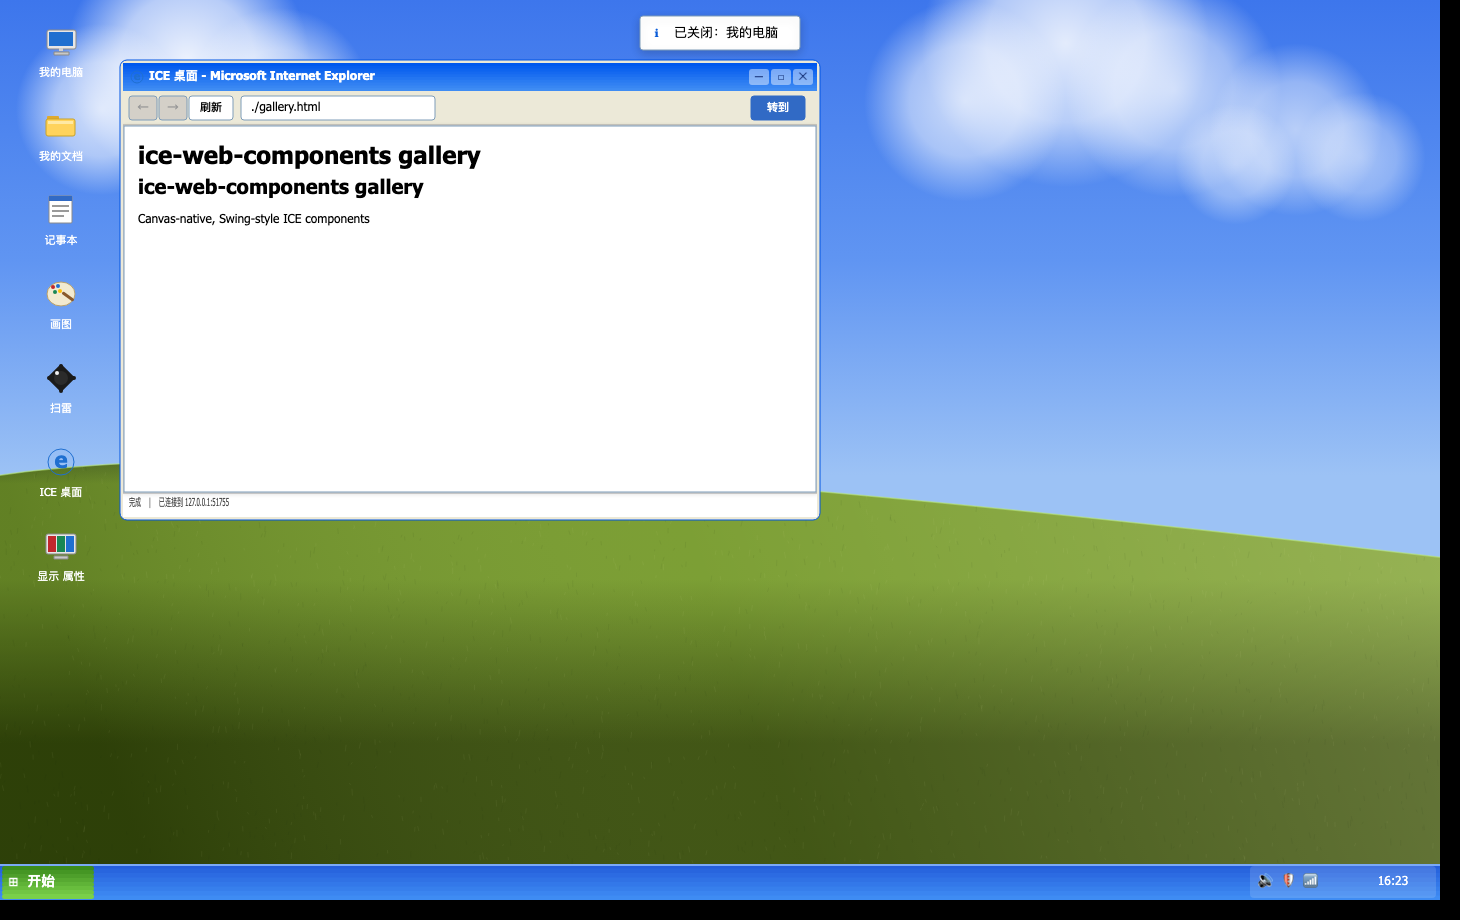
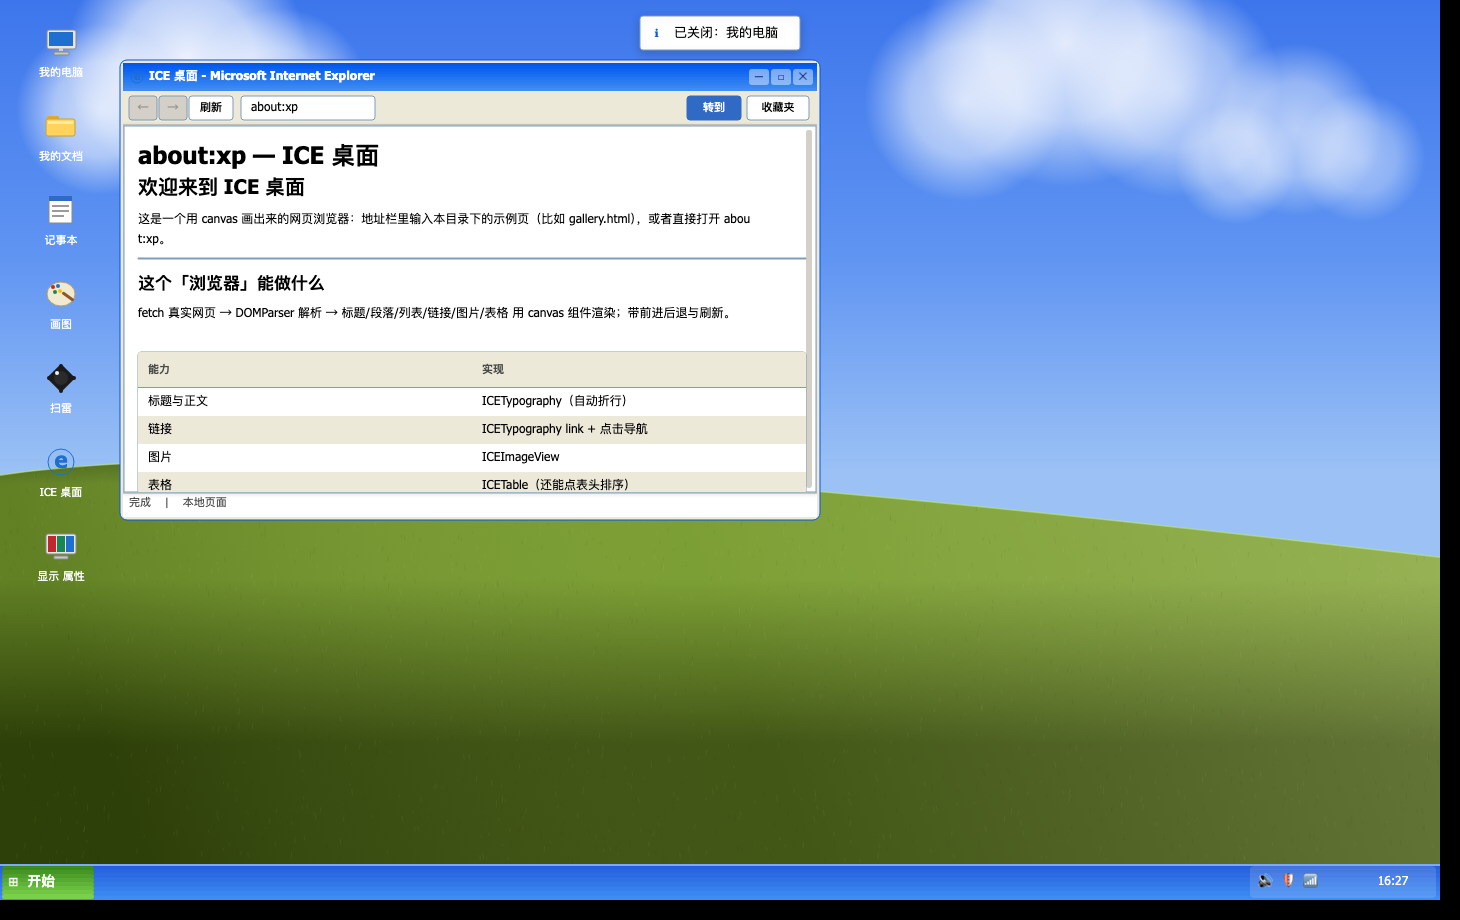
feat(xp/ie): 渲染 <table> 与 <hr>、about:xp 本地彩蛋页、收藏夹下拉
- 抓到的网页里 <table> 现在渲染成真正的 ICETable（表头/斑马纹/点表头排序都白送），
  <hr> 渲染成 ICESeparator；抽取逻辑按 tr/th/td 生成列与行（无表头时自动生成列名）
- about:xp：不联网也能看的本地页（介绍这个 canvas 浏览器 + 一张 ICETable 能力表），
  地址栏直接输入即可；工具栏加「收藏夹」下拉（跳到本目录示例页 / about:xp）
- QA：qa-xp 新增 2 项（about:xp 页面确实渲染出 ICETable 表格、收藏夹下拉可打开）；
  表格断言按 ICETable 的公开方法判断（UMD 构建里 constructor.name 会被压缩）
- 文档：examples.md 补「网页元素 → 组件」对照表与 about:xp/收藏夹说明

验证：单测 523；verify（tsc + build + docs 262 链接）通过；qa:xp 23 → 25 项全绿；重出 xp-ie.png

diff --git a/examples/windows-xp.html b/examples/windows-xp.html
@@ -1505,7 +1505,20 @@
           style: { fontSize: 12 },
         });
         const go = new W.ICEButton({ id: 'ie-go', left: 424, top: 5, width: 54, height: 24, text: '转到', size: 'small' });
-        toolbar.addChildren([backButton, forwardButton, refreshButton, address, go], { align: 'top' });
+        const bookmarks = new W.ICEButton({ id: 'ie-bookmarks', left: 484, top: 5, width: 62, height: 24, text: '收藏夹', size: 'small', variant: 'default' });
+        toolbar.addChildren([backButton, forwardButton, refreshButton, address, go, bookmarks], { align: 'top' });
+        W.attachDropdown(ice, bookmarks, {
+          items: [
+            { key: 'gallery', label: '组件总览 gallery' },
+            { key: 'workbench', label: '客服工作台 workbench' },
+            { key: 'admin', label: '六页后台 admin' },
+            { key: 'xp', label: '关于本页 about:xp' },
+          ],
+          onSelect: (item) => {
+            const targets = { gallery: './gallery.html', workbench: './workbench.html', admin: './admin.html', xp: 'about:xp' };
+            goTo(targets[item.key] || './gallery.html');
+          },
+        });
 
         const viewport = new W.ICEPanel({
           left: 0,
@@ -1589,6 +1602,29 @@
               top += 158;
               return;
             }
+            if (block.kind === 'hr') {
+              const node = new W.ICESeparator({ left: 14, top, width, height: 1 });
+              page.addChild(node, false);
+              top += 14;
+              return;
+            }
+            if (block.kind === 'table') {
+              // 表格渲染成真正的 ICETable（列排序/悬停/斑马纹都白送）
+              const node = new W.ICETable({
+                left: 14,
+                top,
+                width,
+                rowHeight: 28,
+                columns: block.columns.map((title, index) => ({
+                  key: 'c' + index,
+                  title: title || '列' + (index + 1),
+                })),
+                data: block.rows,
+              });
+              page.addChild(node, false);
+              top += Number(node.state.height) + 10;
+              return;
+            }
             const lines = paragraphLines(block.text, width - 28, 12);
             const node = new W.ICETypography({ left: 14, top, width, rows: Math.max(1, lines.length), text: block.text, variant: 'paragraph' });
             page.addChild(node, false);
@@ -1633,6 +1669,31 @@
             Array.from(el.children || []).forEach((child) => {
               const tag = child.tagName.toLowerCase();
               if (['script', 'style', 'noscript', 'svg', 'canvas', 'iframe'].indexOf(tag) !== -1) return;
+              if (tag === 'hr') {
+                blocks.push({ kind: 'hr' });
+                return;
+              }
+              if (tag === 'table') {
+                const rows = Array.from(child.querySelectorAll('tr'))
+                  .map((tr) => Array.from(tr.querySelectorAll('th,td')).map((cell) => String(cell.textContent || '').replace(/\s+/g, ' ').trim()))
+                  .filter((cells) => cells.length);
+                if (rows.length) {
+                  const headerCell = child.querySelector('th');
+                  const columns = headerCell ? rows[0] : rows[0].map((_v, index) => '列' + (index + 1));
+                  const bodyRows = headerCell ? rows.slice(1) : rows;
+                  blocks.push({
+                    kind: 'table',
+                    columns,
+                    rows: bodyRows.map((cells) => {
+                      const row = {};
+                      cells.forEach((value, index) => (row['c' + index] = value));
+                      return row;
+                    }),
+                  });
+                  count += 1 + bodyRows.length;
+                }
+                return;
+              }
               if (tag === 'h1' || tag === 'h2' || tag === 'h3') {
                 pushText(child, 'heading', tag === 'h1' ? 3 : tag === 'h2' ? 4 : 5);
                 count += 1;
@@ -1676,6 +1737,32 @@
           setStatus('正在打开 ' + url + ' …');
           currentUrl = url;
           address.setValue(url);
+          // 本地彩蛋页：不联网也能玩（about:xp）
+          if (String(url).trim().toLowerCase() === 'about:xp') {
+            renderBlocks(
+              [
+                { kind: 'heading', level: 3, text: '欢迎来到 ICE 桌面' },
+                { kind: 'paragraph', text: '这是一个用 canvas 画出来的网页浏览器：地址栏里输入本目录下的示例页（比如 gallery.html），或者直接打开 about:xp。' },
+                { kind: 'hr' },
+                { kind: 'heading', level: 4, text: '这个「浏览器」能做什么' },
+                { kind: 'paragraph', text: 'fetch 真实网页 → DOMParser 解析 → 标题/段落/列表/链接/图片/表格 用 canvas 组件渲染；带前进后退与刷新。' },
+                { kind: 'table', columns: ['能力', '实现'], rows: [
+                  { c0: '标题与正文', c1: 'ICETypography（自动折行）' },
+                  { c0: '链接', c1: 'ICETypography link + 点击导航' },
+                  { c0: '图片', c1: 'ICEImageView' },
+                  { c0: '表格', c1: 'ICETable（还能点表头排序）' },
+                  { c0: '滚动', c1: 'ICEScrollPane' },
+                ] },
+                { kind: 'hr' },
+                { kind: 'paragraph', text: '受同源策略限制：同源或 CORS 友好的站点能抓，其它站点会落到错误页 —— 和真浏览器一样。' },
+                { kind: 'link', text: '去 gallery.html 看看', href: './gallery.html' },
+              ],
+              'about:xp — ICE 桌面',
+            );
+            setStatus('完成    |    本地页面');
+            loading = false;
+            return;
+          }
           let absolute = url;
           try {
             absolute = new URL(url, origin || location.href).href;
@@ -1749,8 +1836,9 @@
           const width = Number(pane.state.width) || 600;
           const height = Number(pane.state.height) || 400;
           toolbar.setState({ width });
-          address.setState({ width: Math.max(120, width - 500) });
-          go.setState({ left: width - 66 });
+          address.setState({ width: Math.max(120, width - 560) });
+          go.setState({ left: width - 130 });
+          bookmarks.setState({ left: width - 70 });
           viewport.setState({ width, height: height - 58 });
           scroll.setState({ width: width - 2, height: height - 60 });
           status.setState({ top: height - 24, width: width - 12 });
@@ -1766,7 +1854,20 @@
           goTo('./gallery.html');
         }, 0);
 
-        handles.ie = { address, go, page, scroll, status, load, goTo, backButton, forwardButton, refreshButton, getUrl: () => currentUrl };
+        handles.ie = {
+          address,
+          go,
+          page,
+          scroll,
+          status,
+          load,
+          goTo,
+          backButton,
+          forwardButton,
+          refreshButton,
+          bookmarks,
+          getUrl: () => currentUrl,
+        };
         return pane;
       };
 

diff --git a/docs/guides/examples.md b/docs/guides/examples.md
@@ -180,6 +180,19 @@ setInterval(() => model.tick(), 1000);      // 计时（只有 playing 会累加
 - **必须用 http(s) 打开示例**（`npx serve .`），因为 `fetch` 在 `file://` 下不可用；
 - 换句话说：能不能"真的访问"，取决于目标站点的 CORS 头，不是我们的渲染能力。
 
+渲染范围与彩蛋：
+
+| 网页元素 | 渲染成 |
+|---|---|
+| `title` / `h1~h3` / `p` / `li` / `blockquote` | `ICETypography`（标题层级、正文自动折行） |
+| `a` | `ICETypography` 的 link 变体，点击即导航 |
+| `img` | `ICEImageView` |
+| `table` | `ICETable`（表头、斑马纹、点表头排序都是白送的） |
+| `hr` | `ICESeparator` |
+
+地址栏里输入 **`about:xp`** 有一个不联网也能看的本地页（介绍这个浏览器、并带一张
+用 `ICETable` 渲染的能力表）；工具栏右侧的**收藏夹**下拉可以直接跳到几个本地示例页。
+
 ---
 
 ## 照着做一个新场景的清单
